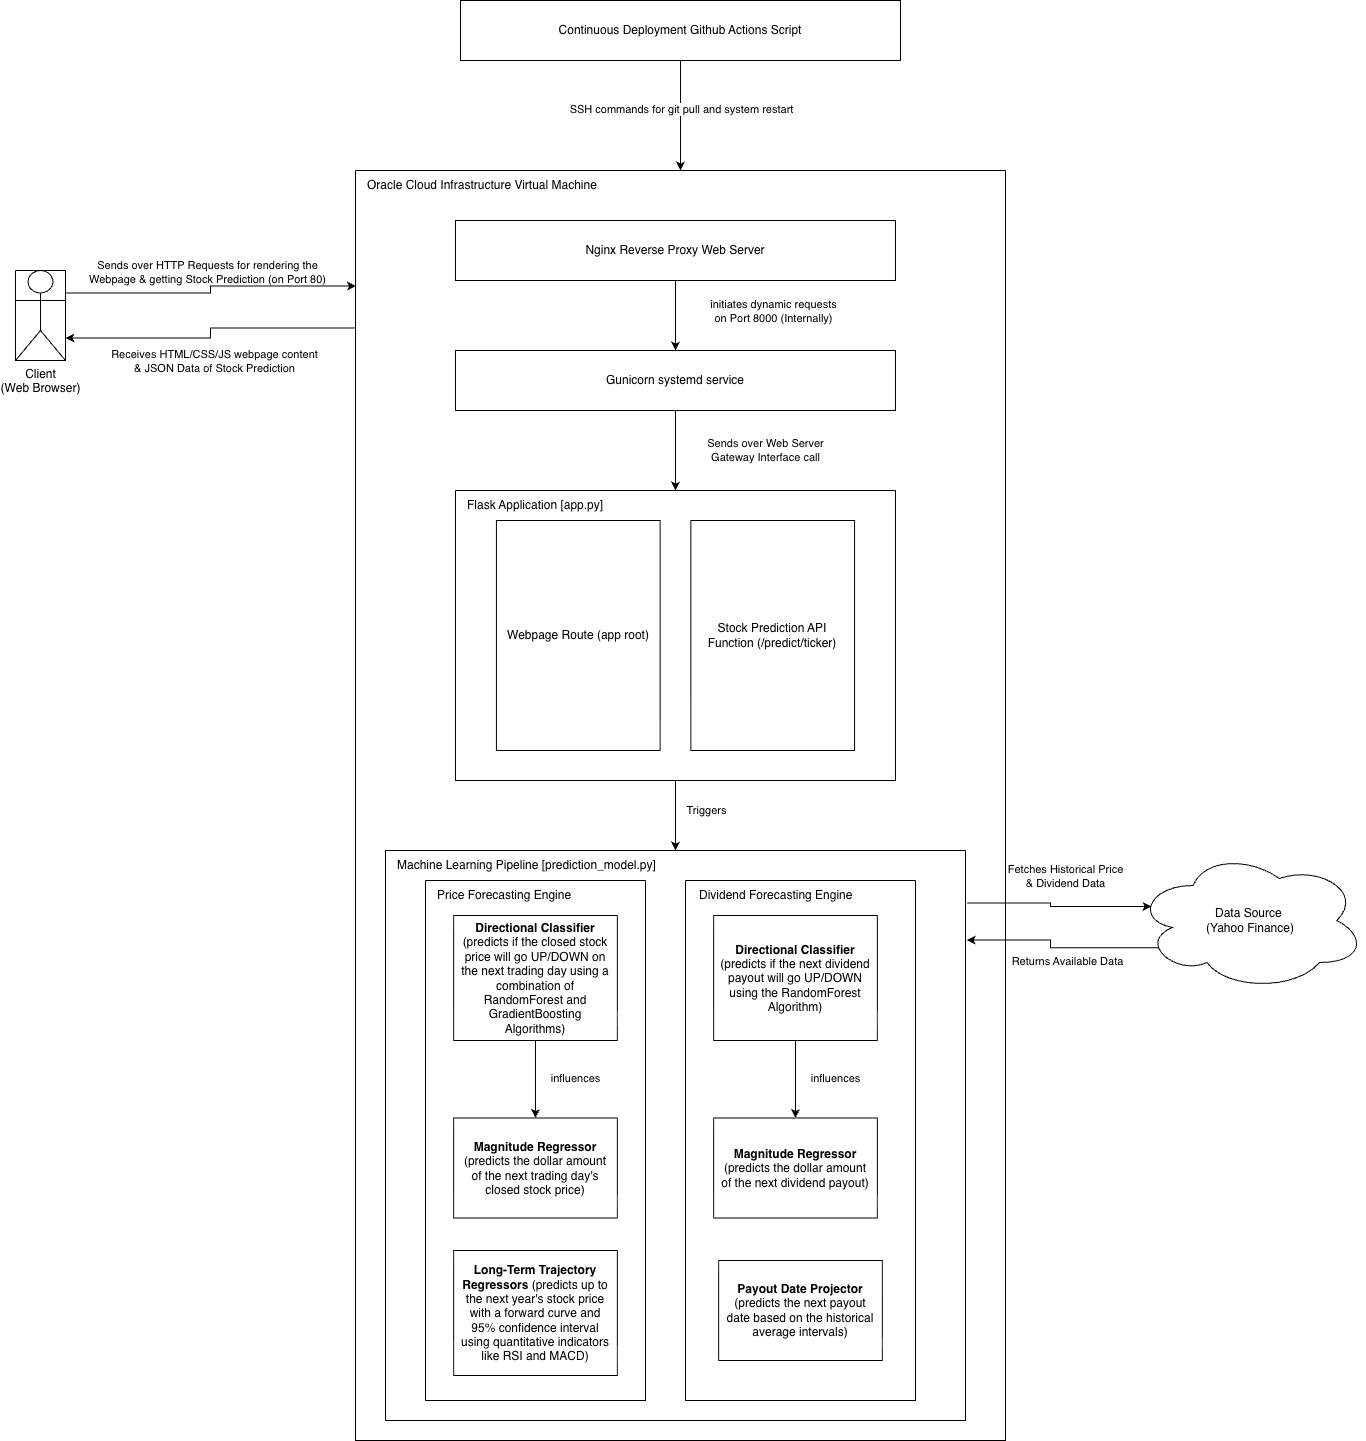
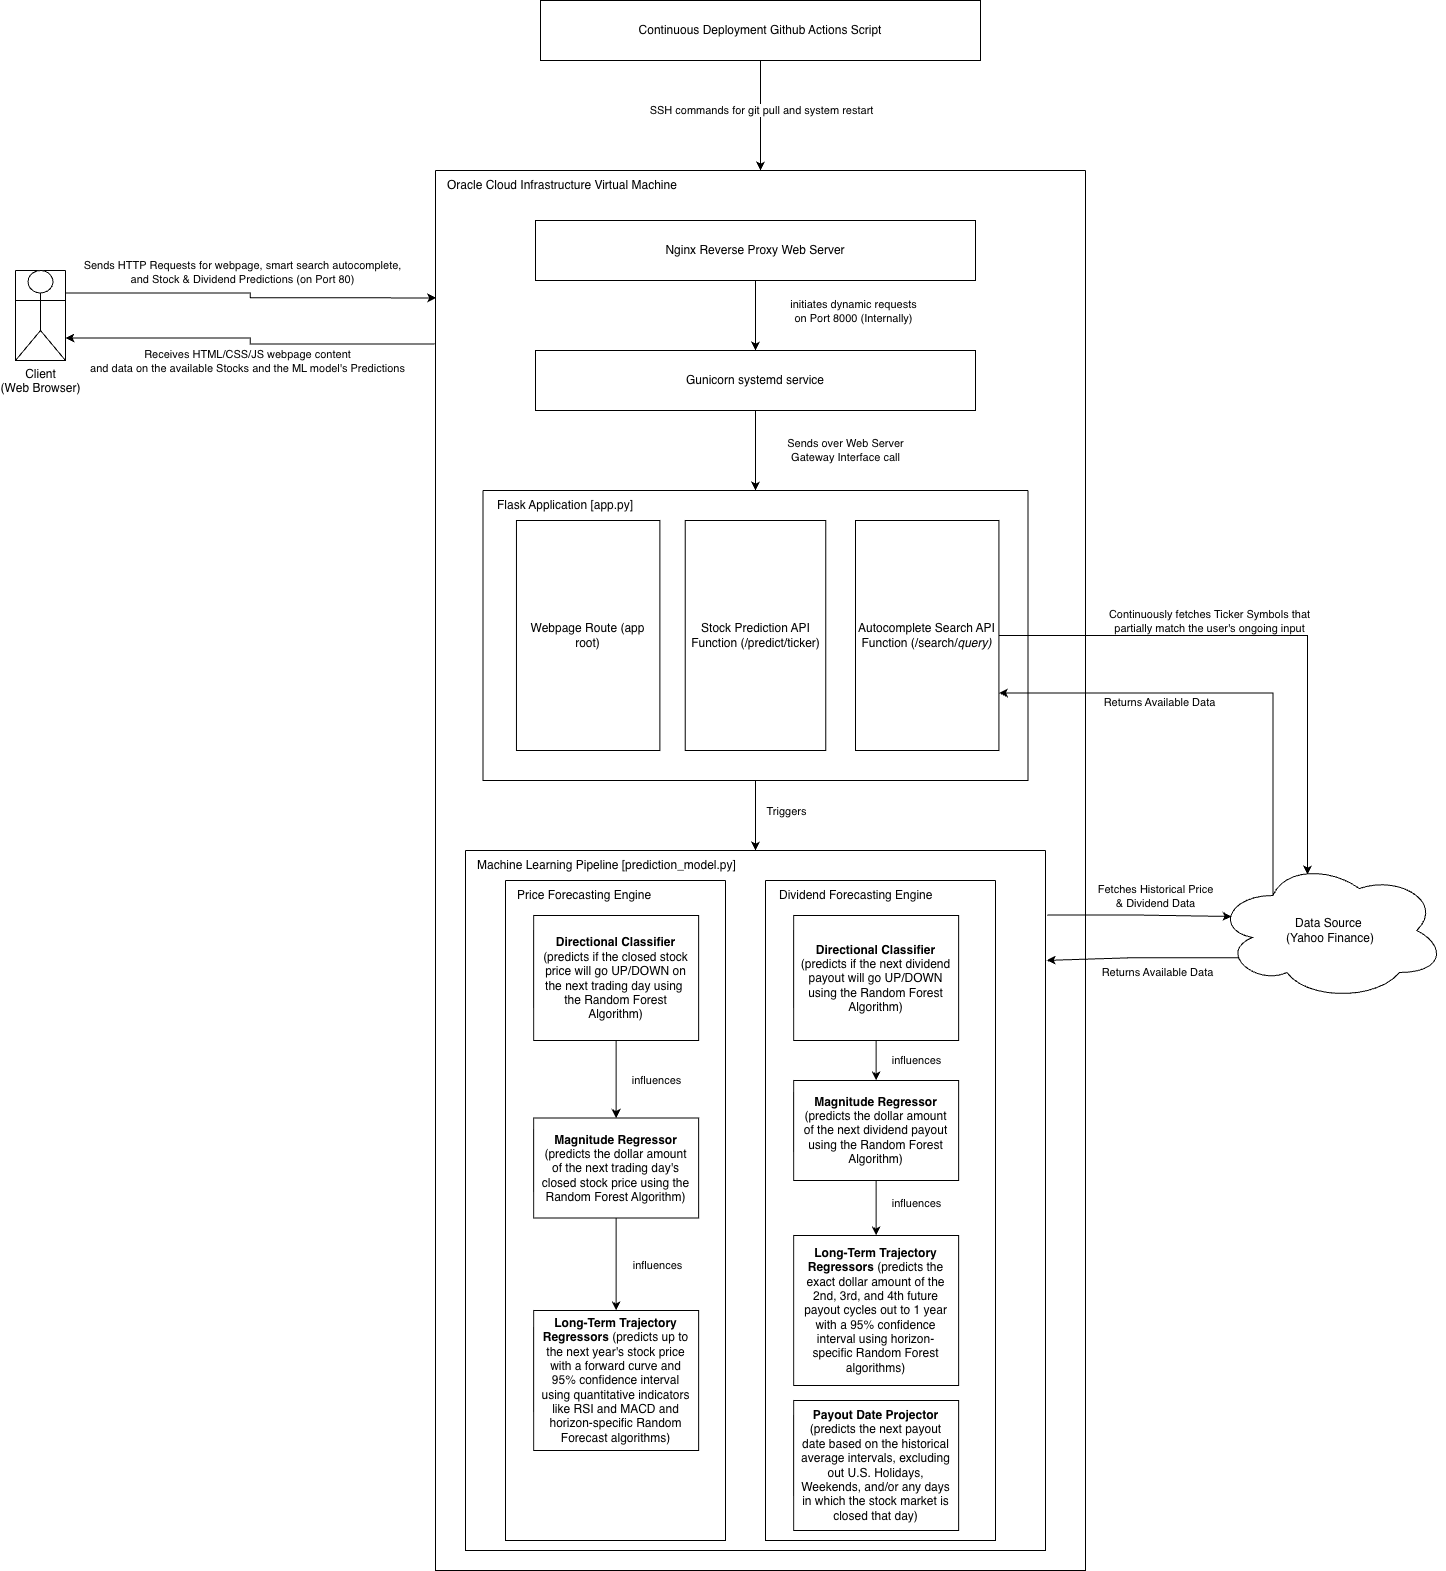
updated documentation based on the updates since the last release

diff --git a/README.md b/README.md
@@ -1,11 +1,11 @@
 # Real-Time Stock & Dividend Forecaster
 
 ## Overview
-This project is a full-stack web application designed to bridge the gap between unstructured, raw financial data and a production-ready, interactive forecasting system. It provides a real-time, next-day forecast for a stock's closing price alongside an intelligent projection of its next dividend payment. 
+This project is a full-stack web application designed to bridge the gap between raw financial data and a production-ready forecasting system. It provides a real-time, next-day forecast for a stock closing price alongside an intelligent projection of its next dividend payment. 
 
-The back-end is powered by a custom-built machine learning ensemble utilizing Python and Scikit-learn, served via a **Flask web framework**. The front-end delivers a clean, responsive, and highly interactive interface built with HTML, CSS, JavaScript, and Chart.js. 
+The back-end is powered by a custom-built machine learning ensemble utilizing Python and Scikit-learn. A Flask web framework serves the data. The front-end delivers a clean, responsive, and highly interactive interface built with HTML, CSS, vanilla JavaScript, and Chart.js. 
 
-Designed for high-velocity execution and scalability, the entire application operates on a monolithic, "all-in-one" client-server architecture deployed on a custom-provisioned Oracle Cloud Infrastructure (OCI) environment, fully managed by Infrastructure as Code (IaC) and a CI/CD pipeline.
+Designed for high-velocity execution and scalability, the application operates on a monolithic client-server architecture deployed on a custom-provisioned Oracle Cloud Infrastructure (OCI) environment. The deployment is fully managed by Infrastructure as Code (IaC) and an automated CI/CD pipeline.
 
 ---
 
@@ -14,19 +14,20 @@ To ensure enterprise-grade stability, security, and performance, this applicatio
 
 ![Image of Application Architecture](imgs/stock-market-predictor-arch.png)
 
-1.  **Client (Front-End):** The user's web browser loads the HTML, CSS, and JavaScript files. The UI is decoupled from the heavy ML processing, utilizing asynchronous `fetch` calls to ensure the interface remains responsive during model training.
-2.  **Web Server (Nginx Reverse Proxy):** Nginx acts as the secure front door to the application. It intercepts incoming public HTTP traffic on port 80, buffering requests to protect the internal server from slow clients or malicious spikes. It safely proxies validated dynamic requests to the internal application layer.
-3.  **Application Server (Gunicorn WSGI):** Because web servers (Nginx) and Python applications (Flask) speak different protocols, Gunicorn acts as the essential Web Server Gateway Interface (WSGI) translator. It runs as a highly available background `systemd` service on internal port 8000, managing a pool of worker processes that execute the Flask code in parallel.
-4.  **API & ML Execution:** The Flask routing layer catches the API request (e.g., `/predict/AAPL`), triggers the algorithmic pipeline to fetch real-time Yahoo Finance data, dynamically trains and executes the machine learning models, and returns the multi-horizon forecast as structured JSON.
+1. **Client (Front-End):** The user browser loads the HTML, CSS, and JavaScript. The UI is decoupled from the heavy ML processing. It utilizes asynchronous `fetch` calls to ensure the interface remains responsive during model training. This includes dynamic loading states and locked inputs during execution.
+2. **Web Server (Nginx Reverse Proxy):** Nginx acts as the secure front door to the application. It intercepts incoming public HTTP traffic on port 80 and buffers requests to protect the internal server from slow clients or malicious spikes. It safely proxies validated dynamic requests to the internal application layer.
+3. **Application Server (Gunicorn WSGI):** Web servers and Python applications speak different protocols. Gunicorn acts as the essential Web Server Gateway Interface (WSGI) translator. It runs as a highly available background `systemd` service on internal port 8000 and manages a pool of worker processes that execute the Flask code in parallel.
+4. **API & ML Execution:** The Flask routing layer handles API requests. It proxies Yahoo Finance autocomplete queries to bypass CORS restrictions. It also catches prediction requests to trigger the algorithmic pipeline. This fetches real-time data, dynamically trains and executes the machine learning models, and returns the multi-horizon forecast as structured JSON.
 
 ---
 
 ## Core Features
-* **Interactive Charting Engine:** A custom Chart.js interface featuring a draggable time-navigator. This allows users to pan and zoom seamlessly across decades of historical market data and visually explore the projected future trajectories.
-* **Dual Forecasting Pipelines:** Independently predicts both the next-day stock price (direction and magnitude) and the next projected dividend payout (amount and date) using isolated ML logic.
-* **Robust Temporal Logic:** Financial markets don't operate on standard calendars. The app uses the `pandas` `CustomBusinessDay` module combined with the US Federal Holiday Calendar to accurately project exact future trading dates, skipping weekends and market closures.
-* **Calibrated Confidence:** Raw machine learning models often output arbitrary scores rather than true probabilities. This app passes its directional predictions through an Isotonic `CalibratedClassifierCV` to ensure the UI reports statistically accurate, real-world confidence percentages.
-* **Advanced Technical Feature Engineering:** The system automatically bridges raw open/close data into complex quantitative indicators, including Relative Strength Index (RSI), MACD, Bollinger Band width/positioning, and Average True Range (ATR).
+* **Smart Search Autocomplete:** A debounced, native search bar that proxies Yahoo Finance query API through the Flask backend to provide live, CORS-friendly ticker autocomplete.
+* **Interactive Charting Engine:** A custom Chart.js interface featuring a draggable time-navigator. Users can pan and zoom seamlessly across historical market data. The chart visually explores the projected future trajectories alongside historical and in-sample prediction tooltips. The system perfectly aligns current day in-sample predictions without temporal gaps.
+* **Historical Data Tables:** Automatically generates clean, scrollable trailing-year data tables for both daily closing prices and recent ex-dividend payouts.
+* **Dual Forecasting Pipelines:** Independently predicts the next-day stock price (direction and magnitude) and the next projected dividend payout (amount and date) using isolated ML logic.
+* **Robust Temporal Logic:** The app uses the `pandas` `CustomBusinessDay` module combined with the US Federal Holiday Calendar to accurately project exact future trading dates by skipping weekends and market closures.
+* **Calibrated Confidence:** Raw machine learning models often output arbitrary scores. This app passes its directional predictions through an Isotonic `CalibratedClassifierCV` to ensure the UI reports statistically accurate, real-world confidence percentages.
 
 ---
 
@@ -34,37 +35,37 @@ To ensure enterprise-grade stability, security, and performance, this applicatio
 The forecasting engine abandons simple linear models in favor of dynamic feature engineering, aggressive noise reduction, and an ensemble architecture designed to minimize variance and prevent overfitting.
 
 ### 1. Data Collection & Structuring
-Upon receiving a ticker symbol, the `yfinance` library retrieves the maximum available daily price and dividend history (dating back to 2010). This unstructured raw data is immediately cleaned, indexed, and prepared for quantitative analysis.
+Upon receiving a ticker symbol, the `yfinance` library retrieves the maximum available daily price and dividend history dating back to 2010. This raw data is immediately cleaned, indexed, and prepared for quantitative analysis.
 
 ### 2. Feature Engineering & Dynamic Pruning
-Raw stock prices (Open, High, Low, Close) are just naked numbers; they don't tell the model *why* the price is moving. The pipeline engineers over 40 distinct features to give the models deep contextual awareness:
+Raw stock prices do not tell the model why the price is moving. The pipeline engineers over 40 distinct features to give the models deep contextual awareness:
 
-* **Time-Horizon Analysis:** Rolling volatility, momentum, and close-to-mean ratios are calculated across 9 distinct lookback windows (from 2 days up to 5 years) to capture both micro-trends and macro-cycles.
+* **Time-Horizon Analysis:** Rolling volatility, momentum, and close-to-mean ratios are calculated across 9 distinct lookback windows from 2 days up to 5 years.
 * **Quantitative Market Indicators:**
-    * **Relative Strength Index (RSI - 14 Day):** Measures the speed and change of price movements. This prevents the model from blindly predicting that a stock will keep going up forever just because it had a few good days by signaling "overbought" (>70) or "oversold" (<30) conditions.
-    * **MACD (Moving Average Convergence Divergence):** By tracking the relationship between the 12-day and 26-day moving averages (including the MACD Line, Signal Line, and Histogram), the model can instantly quantify and react to sudden shifts in trend direction and momentum acceleration.
-    * **Bollinger Bands (20-day & 50-day):** The model calculates both the band *width* (to detect "squeezes" that signal imminent volatility breakouts) and the stock's *position* relative to the bands (to identify dynamic support and resistance levels).
-    * **Normalized Average True Range (ATR):** Measures pure market volatility, accounting for overnight "gaps." By normalizing the 14-day ATR against the current close price, the magnitude regressor learns a mathematical boundary of how wildly a specific stock is capable of moving in a single day, preventing unrealistic price targets.
-* **Dynamic Noise Reduction:** Before final training, the system runs a low-depth Random Forest to evaluate feature importance. It dynamically drops the bottom 25% of the lowest-performing features to aggressively reduce dimensionality and eliminate noisy data.
+    * **Relative Strength Index (RSI):** Measures the speed and change of price movements to signal "overbought" or "oversold" conditions.
+    * **MACD:** Tracks the relationship between 12-day and 26-day moving averages to quantify shifts in trend direction and momentum acceleration.
+    * **Bollinger Bands:** Calculates band width for detecting volatility breakouts and the stock position relative to the bands for dynamic support/resistance.
+    * **Normalized Average True Range (ATR):** Measures pure market volatility to provide a mathematical boundary for daily price movements.
+* **Dynamic Noise Reduction:** Before final training, the system runs a low-depth Random Forest to evaluate feature importance. It dynamically drops the bottom 25% of the lowest-performing features to reduce dimensionality.
 
 ### 3. The Price Forecasting Engine
-Stock prices are inherently noisy. To handle this, the price prediction pipeline is split into a highly reactive short-term model and a macro-focused long-term model.
+The price prediction pipeline is split into a highly reactive short-term model and a macro-focused long-term model.
 
 #### The Next-Day Predictor (Short-Term)
-This subsystem translates market momentum into an immediate forecast utilizing a "Director" (Classifier) and an "Estimator" (Regressor) that are forcibly aligned to guarantee logical consistency on the front-end:
-* **The Directional Classifier (The "Director"):** A `VotingClassifier` aggregates the predictions of two algorithmically distinct models: a `RandomForest` (bagging) and a `GradientBoosting` (boosting) model. This ensemble is then wrapped in an Isotonic calibrator to translate raw algorithmic margins into a true, statistically accurate probability of the stock closing UP or DOWN.
-* **The Magnitude Regressor (The "Estimator"):** A `RandomForestRegressor` is hyperparameter-tuned on the fly using `RandomizedSearchCV`. It tests various tree depths and leaf sizes in real-time—optimizing for Negative Mean Absolute Error (MAE)—to find the perfect configuration for the specific volatility profile of the requested stock.
-* **The Alignment Phase:** Because predicting binary direction is statistically more reliable than predicting exact dollar amounts, the Classifier acts as the authoritative voice. If the Regressor's raw dollar amount contradicts the Classifier's direction, a custom logic block intercepts and overrides the magnitude, ensuring the final output presented to the user is logically coherent.
+* **The Directional Classifier:** A `RandomForestClassifier` wrapped in an Isotonic calibrator. This translates raw algorithmic margins into a true, statistically accurate probability of the stock closing UP or DOWN.
+* **The Magnitude Regressor:** A `RandomForestRegressor` hyperparameter-tuned on the fly using `RandomizedSearchCV`. It tests various tree depths and leaf sizes in real-time to optimize for Negative Mean Absolute Error (MAE) and find the perfect configuration for that specific stock.
+* **The Alignment Phase:** Predicting binary direction is statistically more reliable than predicting exact dollar amounts. The Classifier acts as the authoritative voice. If the Regressor raw dollar amount contradicts the Classifier direction, a custom logic block overrides the magnitude to ensure logical consistency.
 
-#### The Long-Term Trajectory Engine (252-Day Forward Path)
-To map a full trading year (252 days), the system diverges from the reactive next-day models. It bridges historical momentum into a forward-looking curve by training three separate, horizon-specific regressors targeting cumulative log-returns at the 5-day, 21-day, and 252-day marks. The daily path is stitched together using log-linear interpolation and bounded by a dynamic 95% Margin of Error band derived directly from the stock's historical daily volatility.
+#### The Long-Term Trajectory Engine
+To map a full trading year (252 days), the system chains the short-term and macro models together. It explicitly takes the output of the Next-Day Magnitude Regressor to anchor the immediate trajectory at Day 1. It then trains three separate, horizon-specific regressors targeting cumulative log-returns at the 5-day, 21-day, and 252-day marks. The daily path is seamlessly stitched together using log-linear interpolation and bounded by a dynamic 95% Margin of Error band derived from historical daily volatility.
 
 ### 4. The Dividend Forecasting Engine
-Corporate dividends require a fundamentally different analytical approach than chaotic daily stock prices. They are structured, board-approved payouts rather than market-driven trades. Therefore, the application runs a completely isolated, parallel pipeline to predict them, mirroring the dual-model architecture of the price engine:
+Corporate dividends are structured, board-approved payouts rather than market-driven trades. The application runs an isolated, parallel pipeline to predict them:
 
-* **The Directional Classifier (Payout Trend):** Instead of relying on technical trading indicators like RSI or MACD, this dedicated `RandomForestClassifier` evaluates fundamental features engineered from unstructured payout histories—specifically dividend growth rates and rolling averages over the last 4, 6, and 8 payout cycles. It uses this targeted context to determine the binary probability of the next dividend increasing or decreasing.
-* **The Magnitude Regressor (Payout Amount):** Operating in tandem with the classifier, a separate `RandomForestRegressor` utilizes the same fundamental context to forecast the exact dollar amount of the upcoming yield. 
-* **The Payout Date Projector:** Because dividend announcements follow corporate fiscal calendars rather than trading algorithms, the projected date is calculated completely independently from the dollar amount. The system dynamically maps the historical spacing between past payouts to project the exact calendar date of the next distribution.
+* **The Directional Classifier (Payout Trend):** This dedicated `RandomForestClassifier` evaluates fundamental features like dividend growth rates and rolling averages over the last 4, 6, and 8 payout cycles. This determines the probability of the next dividend increasing, decreasing, or remaining flat.
+* **The Magnitude Regressor (Payout Amount):** Operating in tandem with the classifier, a separate `RandomForestRegressor` uses the same fundamental context to forecast the exact dollar amount of the upcoming yield. 
+* **The Payout Date Projector:** The projected date is calculated dynamically by mapping the historical spacing between past payouts to project the exact calendar date of the next distribution.
+* **The Long-Term Trajectory Regressors:** Anchoring off the next predicted payout, this module forecasts the exact dollar amount of the 2nd, 3rd, and 4th future payout cycles out to 1 year using horizon-specific Random Forest algorithms.
 
 ---
 